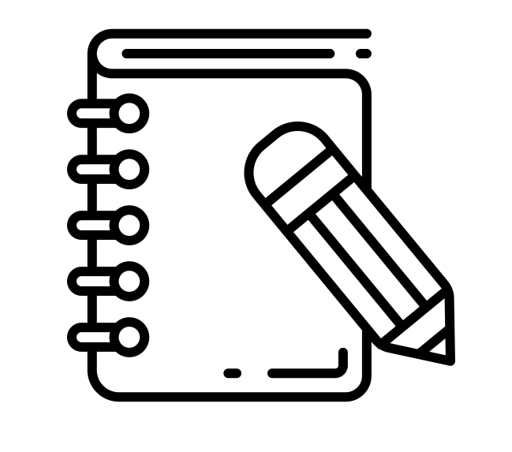
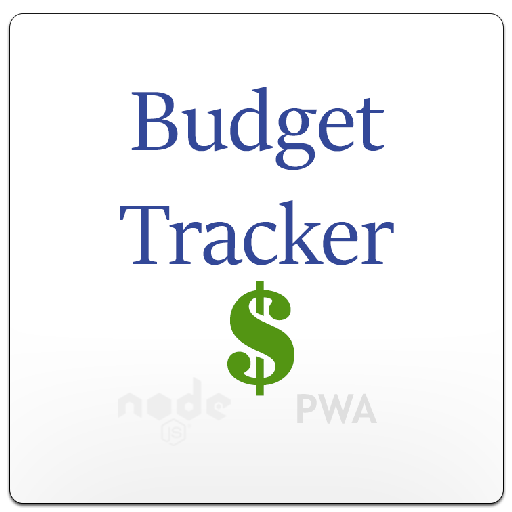
redressed to look realish, layout improved, artwrk

diff --git a/public/index.html b/public/index.html
@@ -26,18 +26,19 @@
 
 <body>
   <div class="wrapper row">
-
-    <div class="heading mx-auto">
-      <h1>Budget Tracker PWA</h1>
-    </div>
-    <div class="form">
-      <input class="fields" type="text" id="t-name" placeholder="Name of transaction" />
+  
+    <div class="heading row">
+      <img class="logo col-sm-5 mx-auto" src="assets/images/icon-512x512.png">
+    
+    <div class="form col-md-7">
+      <input class="fields" type="text" id="t-name" placeholder="Name of transaction" /><br>
       <input class="fields" type="number" min="0" id="t-amount" placeholder="Transaction amount" /><br>
       <button class="bg-success" id="add-btn"><i class="fa fa-plus buttons"></i> Add Funds</button>
       <button class="bg-warning" id="sub-btn"><i class="fa fa-minus"></i> Subtract Funds</button>
       <p class="error"></p>
+      <canvas class="col-md-10 offset-md-1" id="myChart"></canvas>
     </div>
-
+  </div>
     <div class="transactions fields">
       <table class="bg-white">
         <thead class="bg-light">
@@ -50,7 +51,6 @@
       </table>
     </div>
 
-    <canvas class="col-md-5 offset-md-1" id="myChart"></canvas>
     <div class="total col-md-5">
       <div class="total">Total:$<span id="total">0</span></div>
     </div>

diff --git a/public/assets/css/styles.css b/public/assets/css/styles.css
@@ -4,6 +4,9 @@ body {
   background-color: lightgoldenrodyellow;
 }
 
+.logo {
+  width:50%;
+}
 button, input {
   font-size: 100%;
   font-family: Arial;
